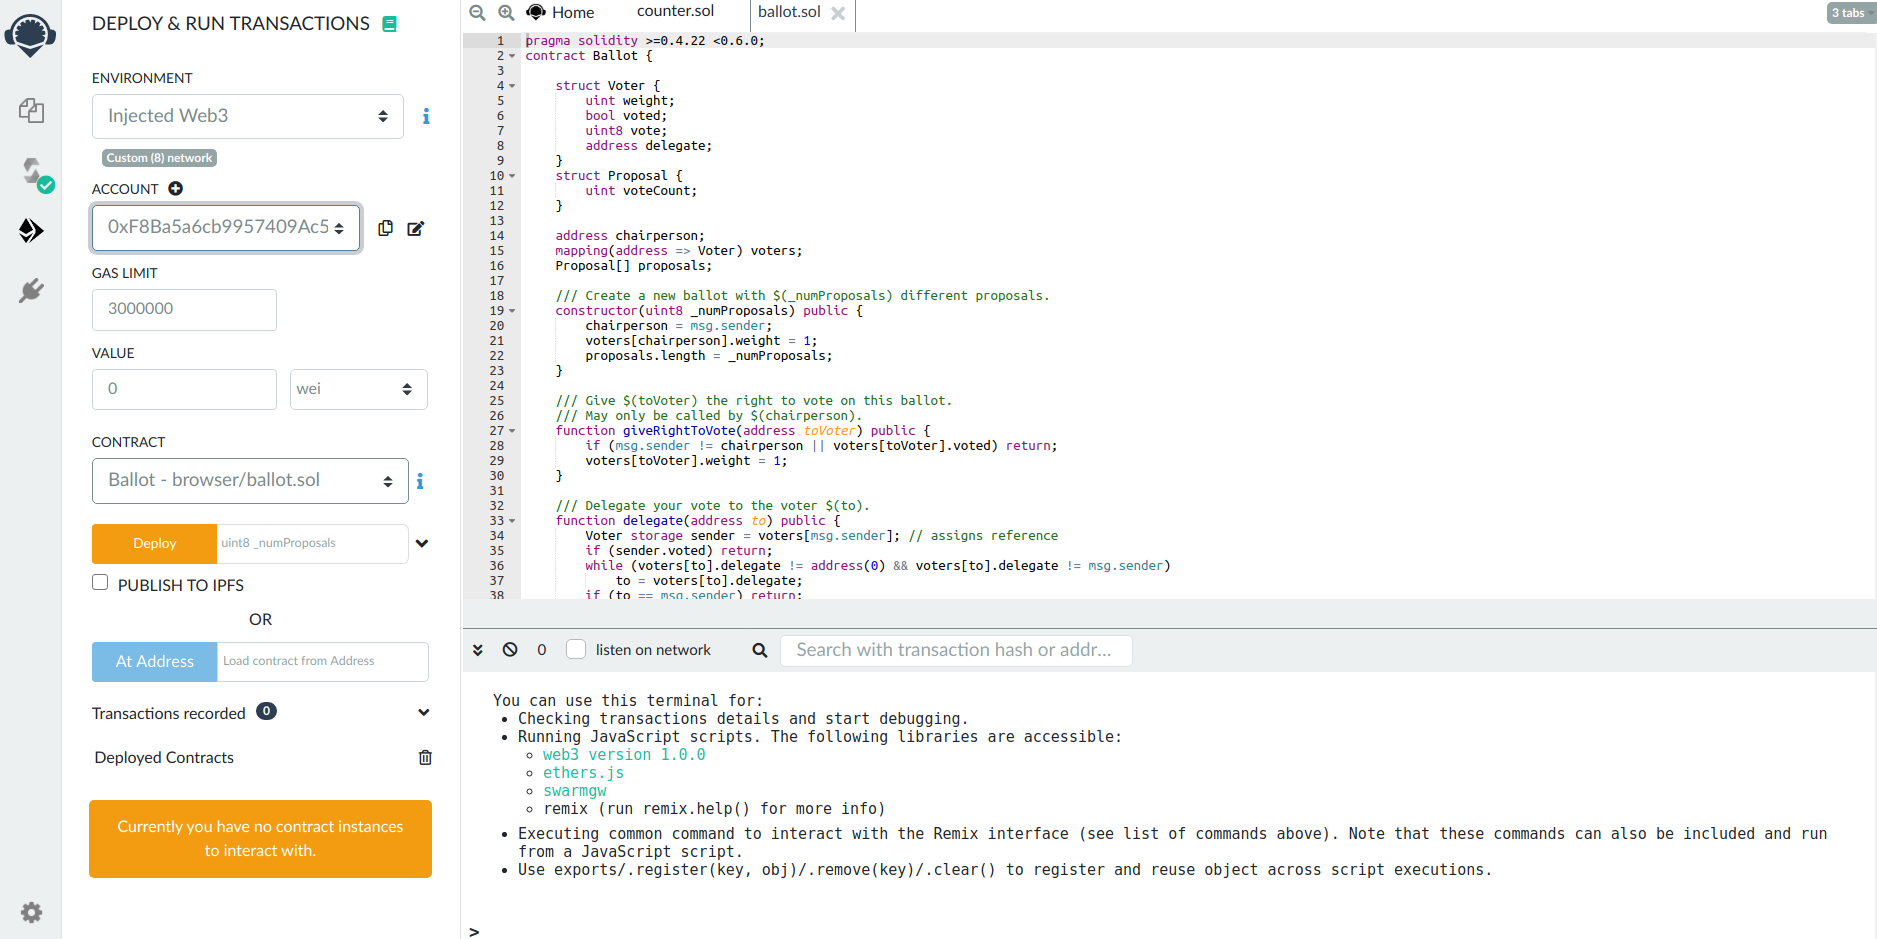
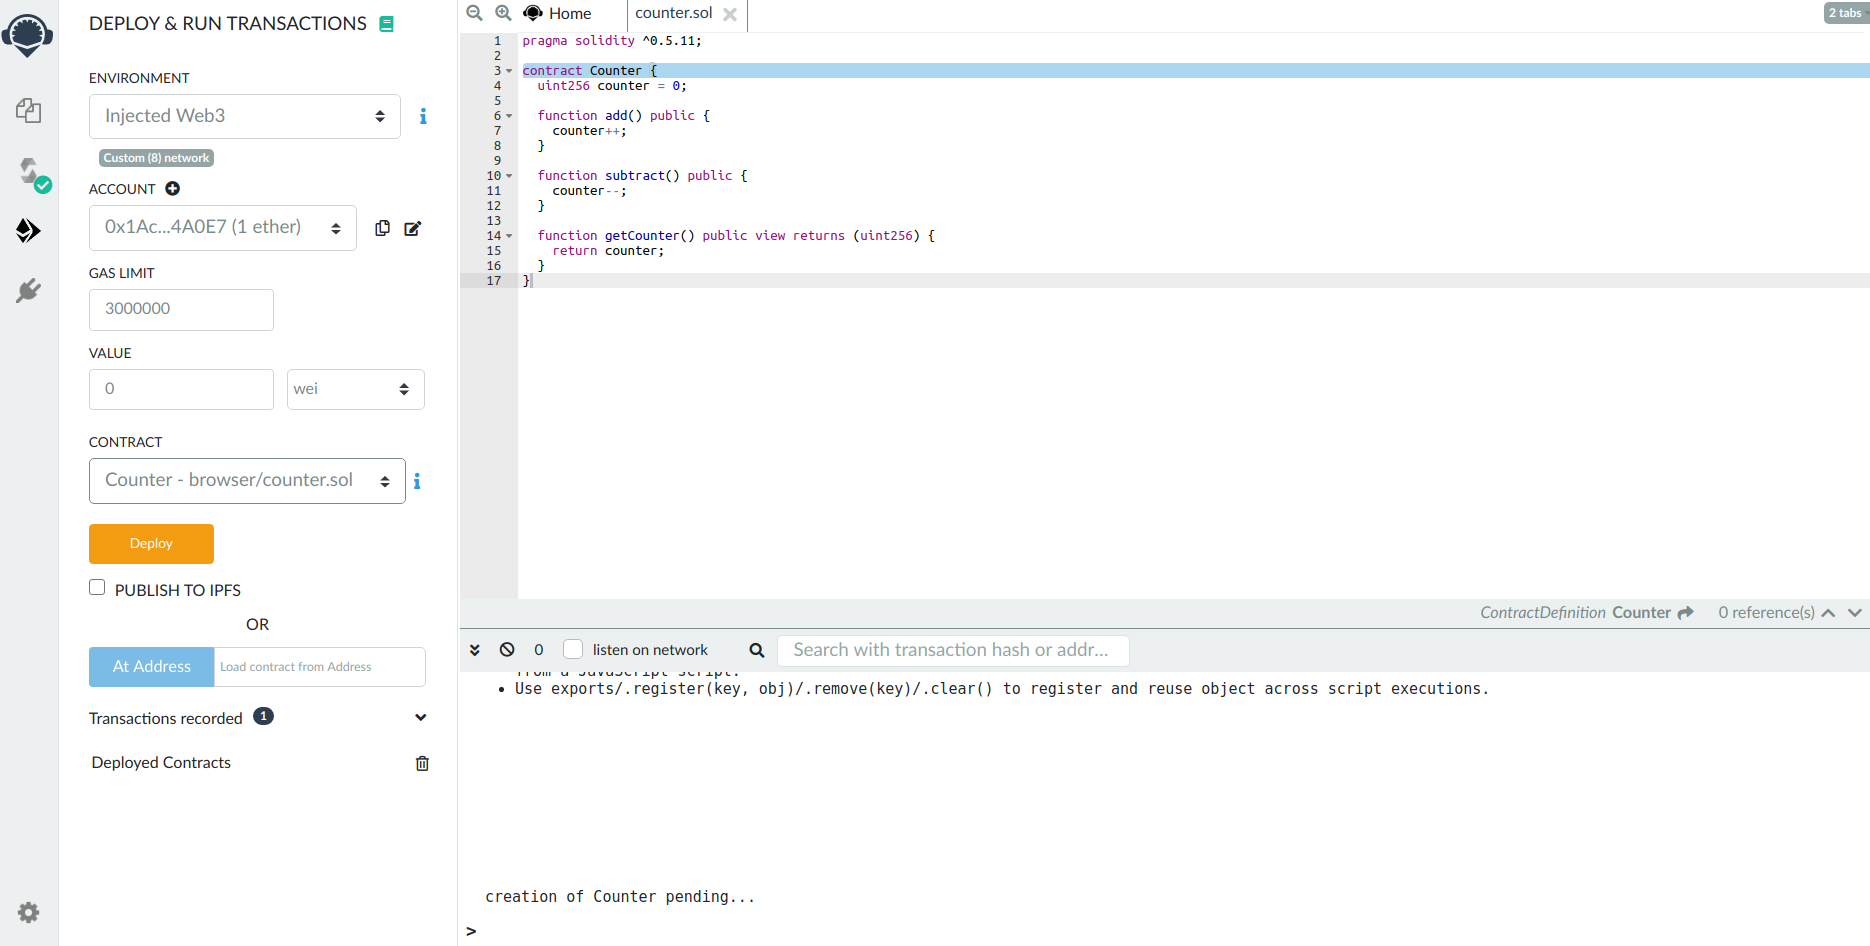
add remix guide

diff --git a/docs/guides/remix.md b/docs/guides/remix.md
@@ -18,7 +18,7 @@ Set up a Remix Ethermint local development environment. {synopsis}
 
 First, follow the steps in the [Metamask guide](./metamask.md) to import your Ethermint private key into Metamask. Start the Ethermint daemon and rest server.
 
-Once that is complete, go to [Remix](http://remix.ethereum.org/). There are some contracts in the File Explorer. Select any of these contracts.  On the left-most bar, select the Solidity Compiler and compile the contract.
+Once that is complete, go to [Remix](http://remix.ethereum.org/). There are some contracts in the File Explorer. Select any of these contracts.  In this example, we use `Counter.sol` from the [Truffle](./truffle.md) guide. On the left-most bar, select the Solidity Compiler and compile the contract.
 
 Next, select the `Deploy and Run` option. Select `injected web3` as the environment. This will open a metamask popup for you to confirm connecting your Metamask to Remix. Hit confirm. 
 
@@ -28,9 +28,16 @@ You should see your account show up in the left-hand panel.
 
 ### Deploy and interact
 
-Now that your account is connected, you are able to deploy the contract. Press the `Deploy` button. You should see a log for the deployment transaction in the ethermint daemon logs:
+Now that your account is connected, you are able to deploy the contract. Press the `Deploy` button. A metamask pop-up will appear asking you to confirm.  Confirm the transaction.  You should see a log for the deployment transaction in the ethermint daemon logs:
 
 ```bash
 I[2020-07-15|17:26:43.155] Added good transaction                       module=mempool tx=877A8E6600FA27EC2B2362719274314977B243671DC4E5F8796ED97FFC0CBE42 res="&{CheckTx:log:\"[]\" gas_wanted:121193 }" height=31 total=1
 ```
 
+Once the contract has been successfully deployed, you will see it show up in the `Deployed Contracts` section in the left-hand side, as well as a green check in the Remix console showing the transaction details.
+
+![deployed contract through remix](./img/remix_deployed.png)
+
+Now, you are able to interact with the contract through Remix. For `Counter.sol`, click `add`. This will open a Metamask pop-up asking you to confirm. Confirm the transaction. Then, click `getCounter` to get the count, which should be `1`.
+
+![interacting with deployed contract through remix](./img/remix_interact.png)
